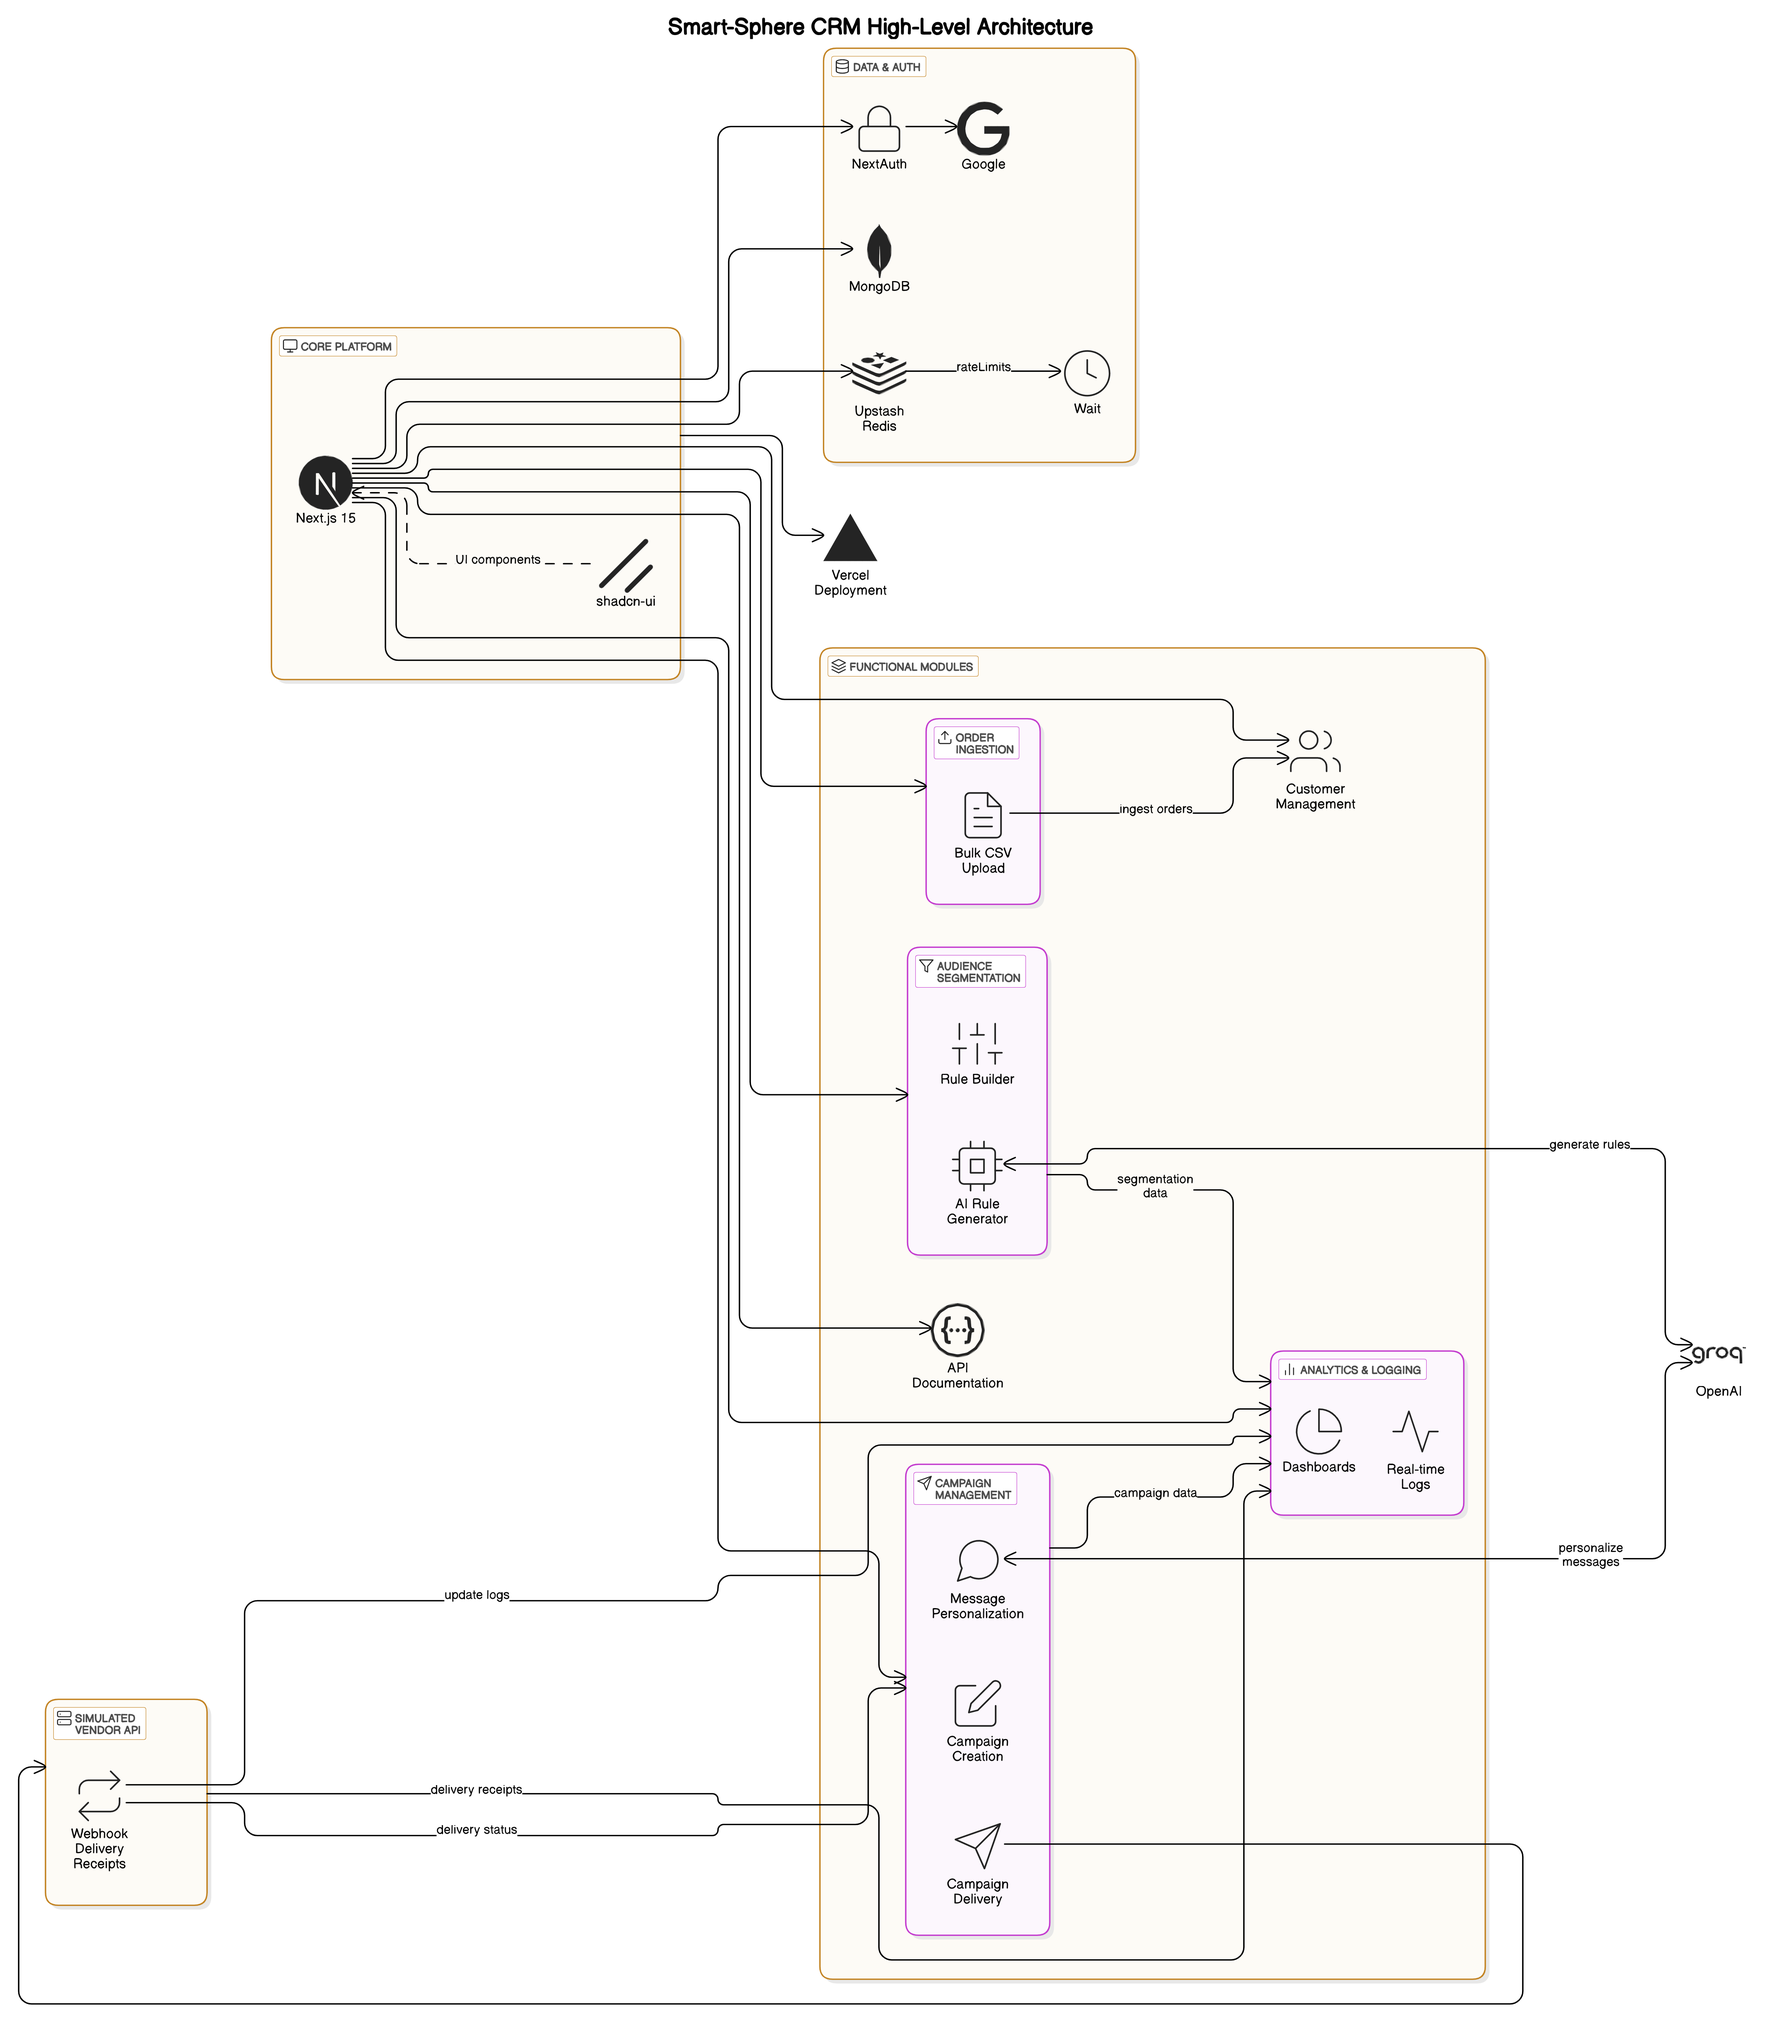
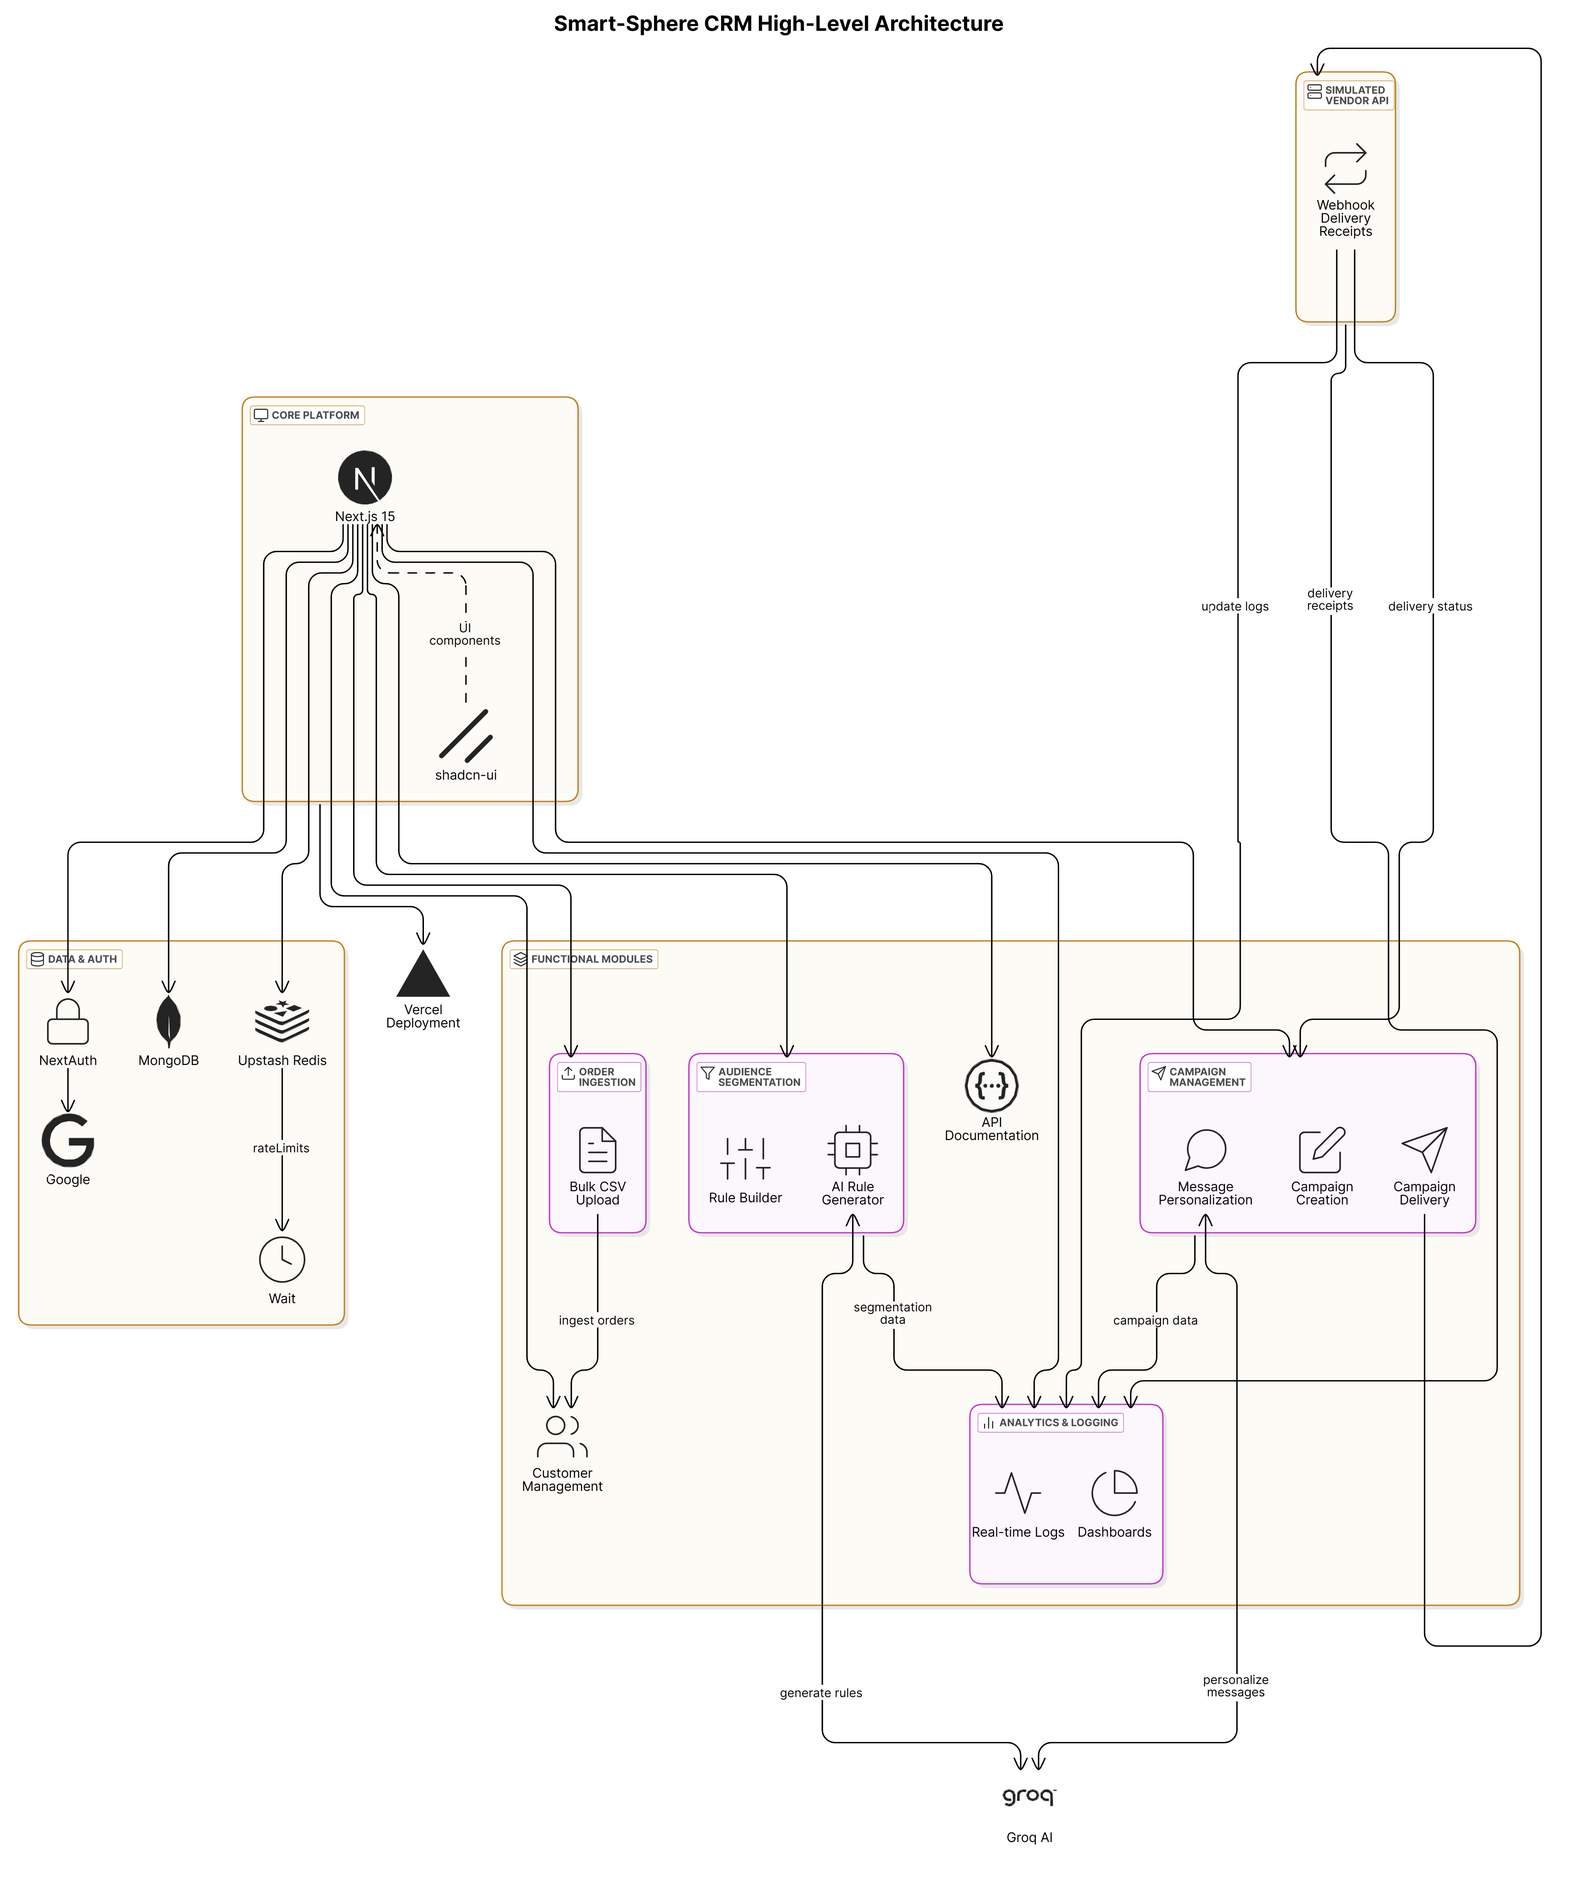
fix: middleware fix

diff --git a/web/middleware.ts b/web/middleware.ts
@@ -1,14 +1,41 @@
-import { NextResponse, NextRequest } from "next/server";
-import { auth } from "@/auth";
+import { NextRequest, NextResponse } from 'next/server'
+import { getToken } from 'next-auth/jwt'
 
-export async function middleware(request : NextRequest) {
-  const session = await auth();
-  const guestOnlyRoutes = ['/sign-in', '/sign-up'];
-  const url = request.nextUrl;
+const authRoutes = [
+    '/api-docs',
+    '/audiences',
+    '/campaigns',
+    '/ingest-data',
+];
 
-  if (session && guestOnlyRoutes.some(route => url.pathname === route || url.pathname.startsWith(route + '/'))) {
-    return NextResponse.redirect(new URL('/', request.url));
-  }
+const guestOnlyRoutes = ['/sign-in', '/sign-up'];
 
-  return NextResponse.next();
+export async function middleware(request: NextRequest) {
+    const url = request.nextUrl;
+    // Use getToken to read the session from cookies
+    const token = await getToken({ req: request, secret: process.env.NEXTAUTH_SECRET });
+
+    if (!token && authRoutes.some(route => url.pathname.startsWith(route))) {
+        return NextResponse.redirect(new URL('/sign-in', request.url));
+    }
+
+    if (token && guestOnlyRoutes.some(route => url.pathname.startsWith(route))) {
+        return NextResponse.redirect(new URL('/', request.url));
+    }
+
+    return NextResponse.next();
 }
+
+export const config = {
+    matcher: [
+        '/sign-in',
+        '/sign-up',
+        '/api-docs',
+        '/audiences',
+        '/audiences/create',
+        '/campaigns',
+        '/campaigns/create',
+        '/campaigns/:campaignId',
+        '/ingest-data',
+    ],
+};

diff --git a/web/src/app/(main)/too-fast/page.tsx b/web/src/app/(main)/too-fast/page.tsx
@@ -1,7 +1,31 @@
 import Link from "next/link";
 import { Button } from "@/components/ui/button";
+import { auth } from "@/auth";
 
-const Page = () => {
+const Page = async () => {
+  const session = await auth();
+  if (session) {
+    return (
+      <main className="flex min-h-screen flex-col items-center justify-center bg-background text-foreground px-4">
+        <div className="glass-effect rounded-xl p-8 shadow-lg max-w-xl w-full flex flex-col items-center animate-fade-in">
+          <h1 className="text-5xl font-bold text-primary mb-4 text-center">
+            Whoa, Slow Down There, Speedy!
+          </h1>
+          <p className="mt-3 text-lg text-muted-foreground text-center">
+            Looks like you&apos;ve been a little too eager. We&apos;ve put a
+            temporary pause on your excitement. 🚦 Chill for a bit, and try again
+            shortly.
+          </p>
+          <Link href="/" className="mt-6 w-full flex justify-center">
+            <Button variant="outline" className="w-full sm:w-auto">
+              <span className="font-semibold">Go to Dashboard</span>
+            </Button>
+          </Link>
+        </div>
+      </main>
+    );
+  }
+  
   return (
     <main className="flex min-h-screen flex-col items-center justify-center bg-background text-foreground px-4">
       <div className="glass-effect rounded-xl p-8 shadow-lg max-w-xl w-full flex flex-col items-center animate-fade-in">

diff --git a/web/src/app/api/ai/generate-segment-rules/route.ts b/web/src/app/api/ai/generate-segment-rules/route.ts
@@ -3,6 +3,10 @@
 import { NextRequest, NextResponse } from 'next/server';
 import { z } from 'zod';
 import Groq from 'groq-sdk';
+import { auth } from '@/auth';
+import { headers } from 'next/headers';
+import ratelimit from '@/lib/rateLimit';
+import { redirect } from 'next/navigation';
 
 const ruleConditionSchema = z.object({
   field: z.enum(['totalSpends', 'visitCount', 'lastActiveDate', 'name', 'email']),
@@ -110,11 +114,22 @@ function getRuleGenerationSystemPrompt(): string {
 
 
 export async function POST(request: NextRequest) {
+
   if (!groq) {
     return NextResponse.json({ message: "AI service not configured. GROQ_API_KEY missing." }, { status: 503 });
   }
 
+  const session = await auth();
+  if (!session) {
+    return NextResponse.json({ message: "Unauthorized" }, { status: 401 });
+  }
+
   try {
+    
+    const ip = (await headers()).get("x-forwarded-for") || "127.0.0.1";
+    const { success } = await ratelimit.limit(ip);
+    if (!success) return redirect("/too-fast");
+
     const body = await request.json();
     const validation = generateRulesRequestSchema.safeParse(body);
 

diff --git a/web/src/app/api/ai/suggest-messages/route.ts b/web/src/app/api/ai/suggest-messages/route.ts
@@ -1,7 +1,12 @@
+/* eslint-disable @typescript-eslint/no-explicit-any */
 // app/api/ai/suggest-messages/route.ts
 import { NextRequest, NextResponse } from 'next/server';
 import { z } from 'zod';
 import Groq from 'groq-sdk';
+import { auth } from '@/auth';
+import { headers } from 'next/headers';
+import ratelimit from '@/lib/rateLimit';
+import { redirect } from 'next/navigation';
 
 const groqApiKey = process.env.GROQ_API_KEY;
 let groq: Groq | null = null;
@@ -41,7 +46,16 @@ export async function POST(request: NextRequest) {
     return NextResponse.json({ message: "AI service not configured. GROQ_API_KEY missing." }, { status: 503 });
   }
 
+  const session = await auth();
+    if (!session) {
+      return NextResponse.json({ message: "Unauthorized" }, { status: 401 });
+    }
+    
   try {
+    const ip = (await headers()).get("x-forwarded-for") || "127.0.0.1";
+    const { success } = await ratelimit.limit(ip);
+    if (!success) return redirect("/too-fast");
+    
     const body = await request.json();
     const validation = suggestMessagesRequestSchema.safeParse(body);
 

diff --git a/web/src/components/navbar.tsx b/web/src/components/navbar.tsx
@@ -87,13 +87,13 @@ export function Navbar() {
                 <>
                   <DropdownMenuItem
                     className="cursor-pointer"
-                    onClick={() => signIn(undefined, { callbackUrl: "/dashboard" })}
+                    onClick={() => signIn(undefined, { callbackUrl: "/" })}
                   >
                     Sign In
                   </DropdownMenuItem>
                   <DropdownMenuItem
                     className="cursor-pointer"
-                    onClick={() => signIn(undefined, { callbackUrl: "/dashboard" })}
+                    onClick={() => signIn(undefined, { callbackUrl: "/" })}
                   >
                     Sign Up
                   </DropdownMenuItem>

diff --git a/web/src/app/(auth)/sign-in/page.tsx b/web/src/app/(auth)/sign-in/page.tsx
@@ -3,7 +3,7 @@
 import type React from "react"
 
 import { useState } from "react"
-import {  useRouter } from "next/navigation"
+import {   useRouter } from "next/navigation"
 import { signIn } from "next-auth/react"
 import Link from "next/link"
 import { Card, CardHeader, CardTitle, CardDescription, CardContent, CardFooter } from "@/components/ui/card"
@@ -12,7 +12,6 @@ import { Input } from "@/components/ui/input"
 import { Label } from "@/components/ui/label"
 import { Separator } from "@/components/ui/separator"
 import { ArrowLeft } from "lucide-react"
-
 
 export default function SignIn() {
   const [loading, setLoading] = useState(false)

diff --git a/web/src/app/page.tsx b/web/src/app/page.tsx
@@ -262,7 +262,7 @@ export default function LandingPage() {
                 </p>
                 <div className="flex flex-col sm:flex-row gap-4 pt-4">
                   <Button asChild size="lg" className="bg-primary text-primary-foreground hover:bg-primary/90 transition-colors">
-                    <Link href="/sign-in" className="gap-2">
+                    <Link href="/campaigns" className="gap-2">
                       Get Started <ArrowRight className="h-4 w-4" />
                     </Link>
                   </Button>

diff --git a/web/src/app/(auth)/sign-up/page.tsx b/web/src/app/(auth)/sign-up/page.tsx
@@ -56,7 +56,7 @@ export default function SignUp() {
       if (signInResult?.error) {
         router.push("/sign-in")
       } else {
-        router.push("/dashboard")
+        router.push("/")
       }
     } catch {
       setError("Something went wrong")

diff --git a/README.md b/README.md
@@ -1,6 +1,6 @@
-# Xeno-CRM (SDE Internship Assignment)
+# Smart-Sphere ( Xeno AI SDE Internship Assignment)
 
-A full-stack, AI-powered Customer Relationship Management (CRM) platform built with Next.js 14 (App Router), MongoDB, NextAuth, shadcn/ui, and OpenAI.  
+A full-stack, AI-powered Customer Relationship Management (CRM) platform built with Next.js 14 (App Router), MongoDB, NextAuth, shadcn/ui, and Groq.  
 This project demonstrates customer segmentation, campaign management, order ingestion, and vendor integration with webhooks.
 
 ---
@@ -15,8 +15,9 @@ This project demonstrates customer segmentation, campaign management, order inge
 - **Vendor Simulation:** Dummy vendor API with delivery receipts via webhook
 - **AI Integration:** Generate audience rules and message templates with OpenAI
 - **Dashboard:** View campaign logs, statuses, and analytics
-- **Modern UI:** Built with shadcn/ui and Tailwind CSS
-
+- **Modern UI:** Built with shadcn/ui and Tailwind CSS and V0.dev
+- **API Documentation:** Swagger UI for easy API exploration
+- **Rate Limiting:** Upstash Redis for rate limiting
 ---
 
 ## Getting Started
@@ -63,7 +64,7 @@ Visit [http://localhost:3000](http://localhost:3000) in your browser.
 ---
 ## Architecture Diagram
 
-![Architecture Diagram](https://raw.githubusercontent.com/AnshJain9159/Xeno-Assignment/main/architecture.png)
+![Smart-Sphere CRM High-Level Architecture](./architecture.png)
 ---
 ## API Endpoints
 
